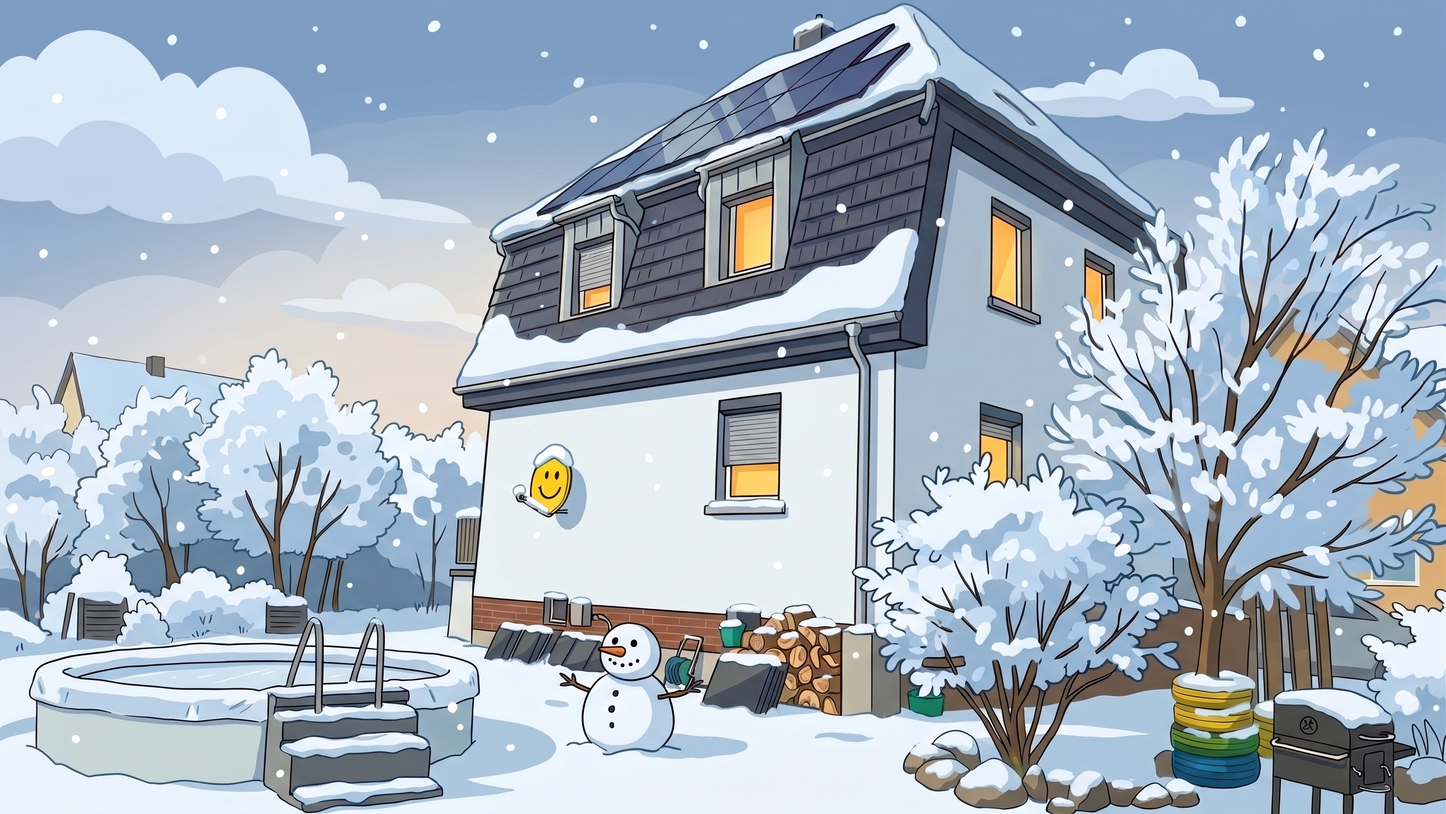
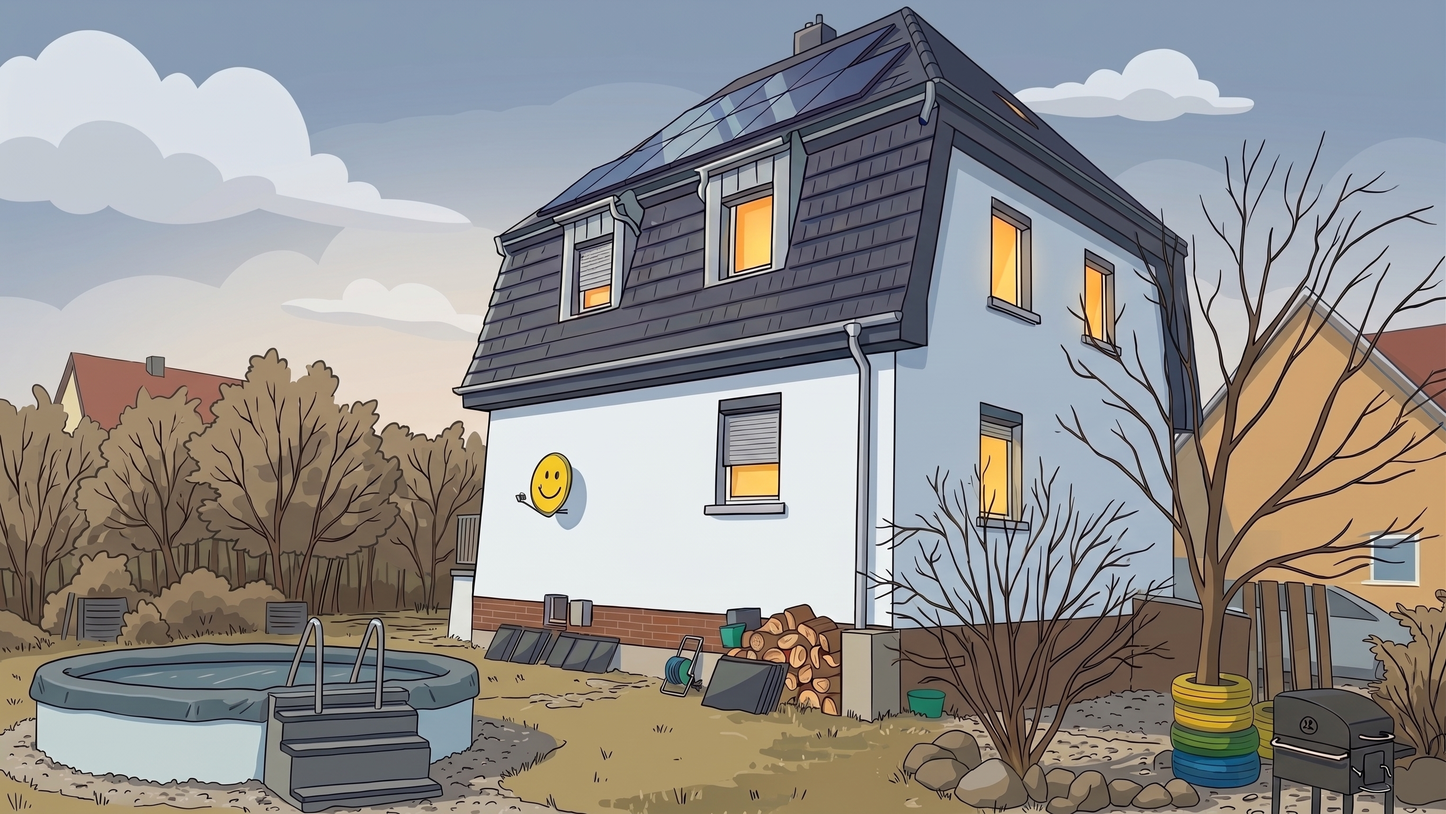
fix cloud positions

diff --git a/public/weather/index.php b/public/weather/index.php
@@ -302,10 +302,10 @@ $skyColor = ($currentWeatherCode <= 3) ? '#87CEEB' : '#A9A9A9';
                                 $cloudPositions = [
                                     ['x' => -20, 'y' => 10,  's' => 1.4], // Links aussen
                                     ['x' => 150, 'y' => 30,  's' => 1.2], // Links mitte
-                                    ['x' => 350, 'y' => -10, 's' => 1.3], // Links ans Dach ran
-                                    ['x' => 950, 'y' => 20,  's' => 1.1], // Rechts ans Dach ran
-                                    ['x' => 1150,'y' => 0,   's' => 1.3], // Rechts mitte
-                                    ['x' => 1350,'y' => 40,  's' => 1.4], // Rechts aussen
+                                    ['x' => 320, 'y' => -10, 's' => 1.0], // Links ans Dach ran
+                                    ['x' => 1080,'y' => 20,  's' => 1.0], // Rechts ans Dach ran
+                                    ['x' => 1250,'y' => 0,   's' => 1.2], // Rechts mitte
+                                    ['x' => 1420,'y' => 40,  's' => 1.3], // Rechts aussen
                                 ];
                             ?>
                                 <g fill="<?= $cColor ?>" opacity="0.85">
